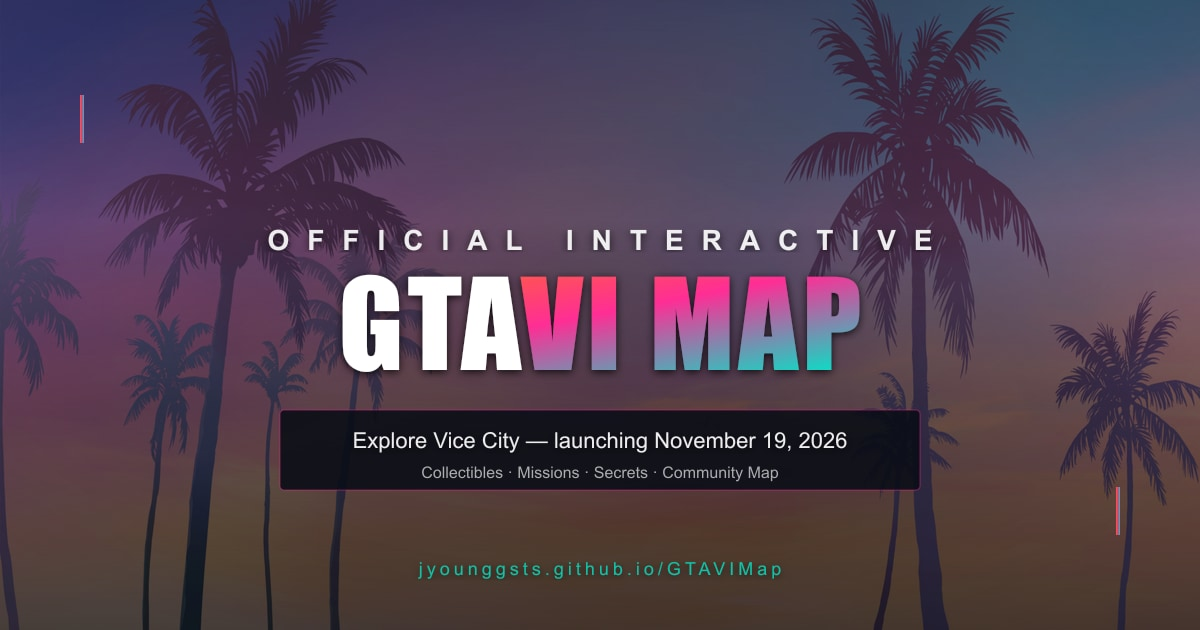
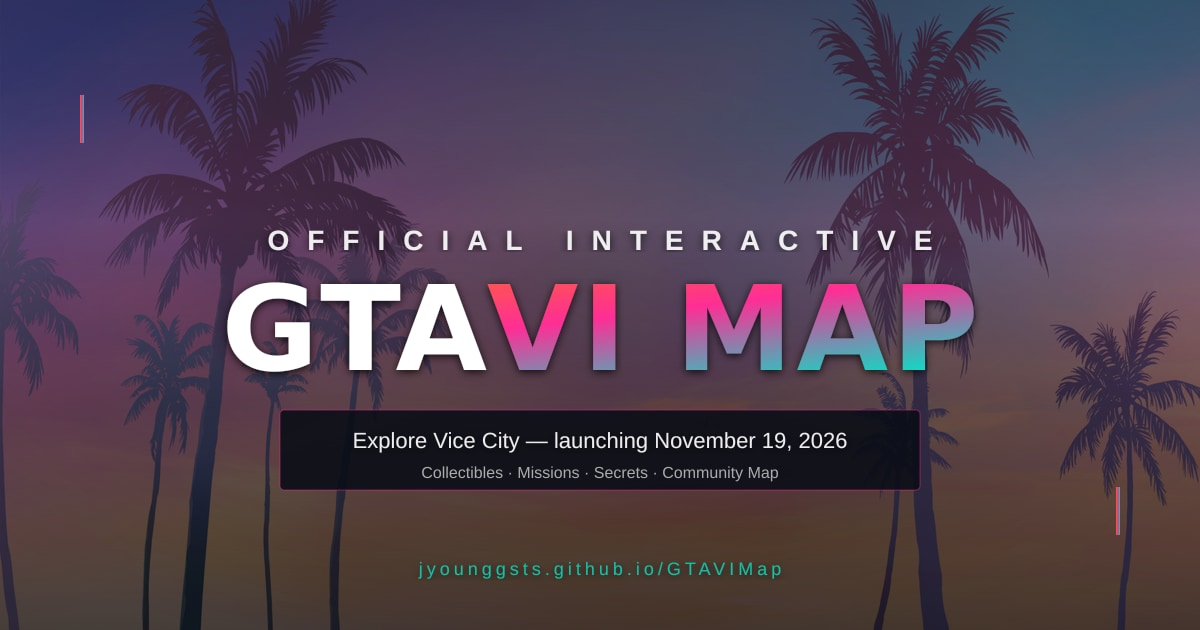
chore: rebuild docs for GitHub Pages

diff --git a/docs/index.html b/docs/index.html
@@ -36,6 +36,6 @@
     <link rel="stylesheet" crossorigin href="/GTAVIMap/assets/index-DQuAR2bh.css">
   </head>
   <body>
-    <div id="app"></div>
+    <div id="app"></div>
   </body>
 </html>